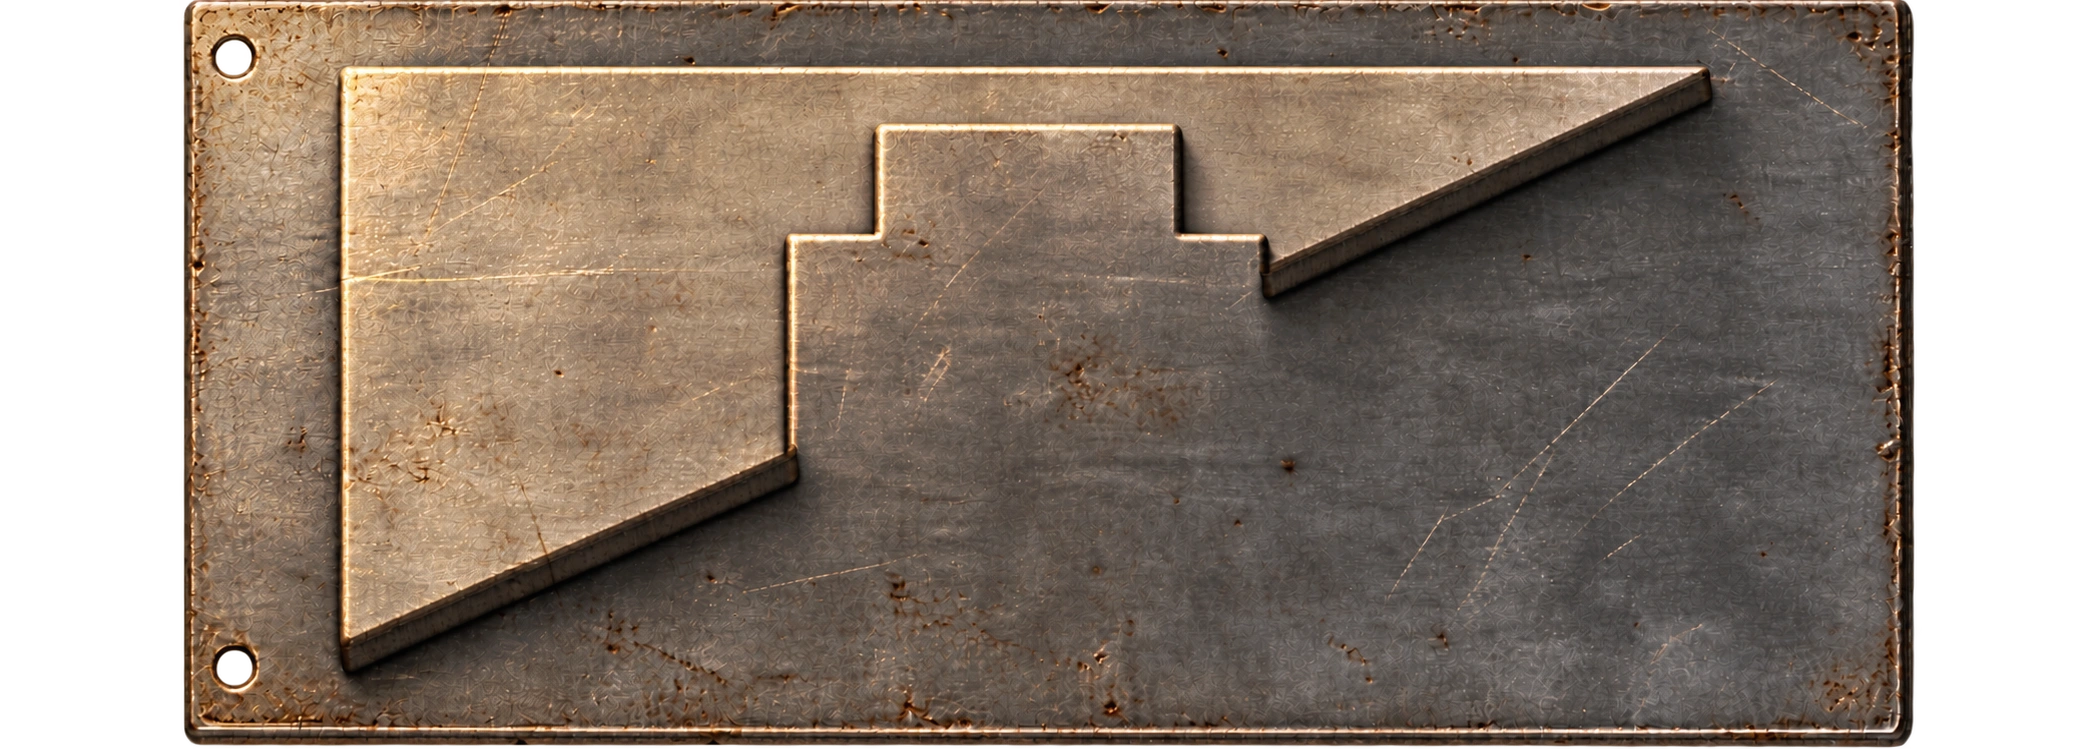
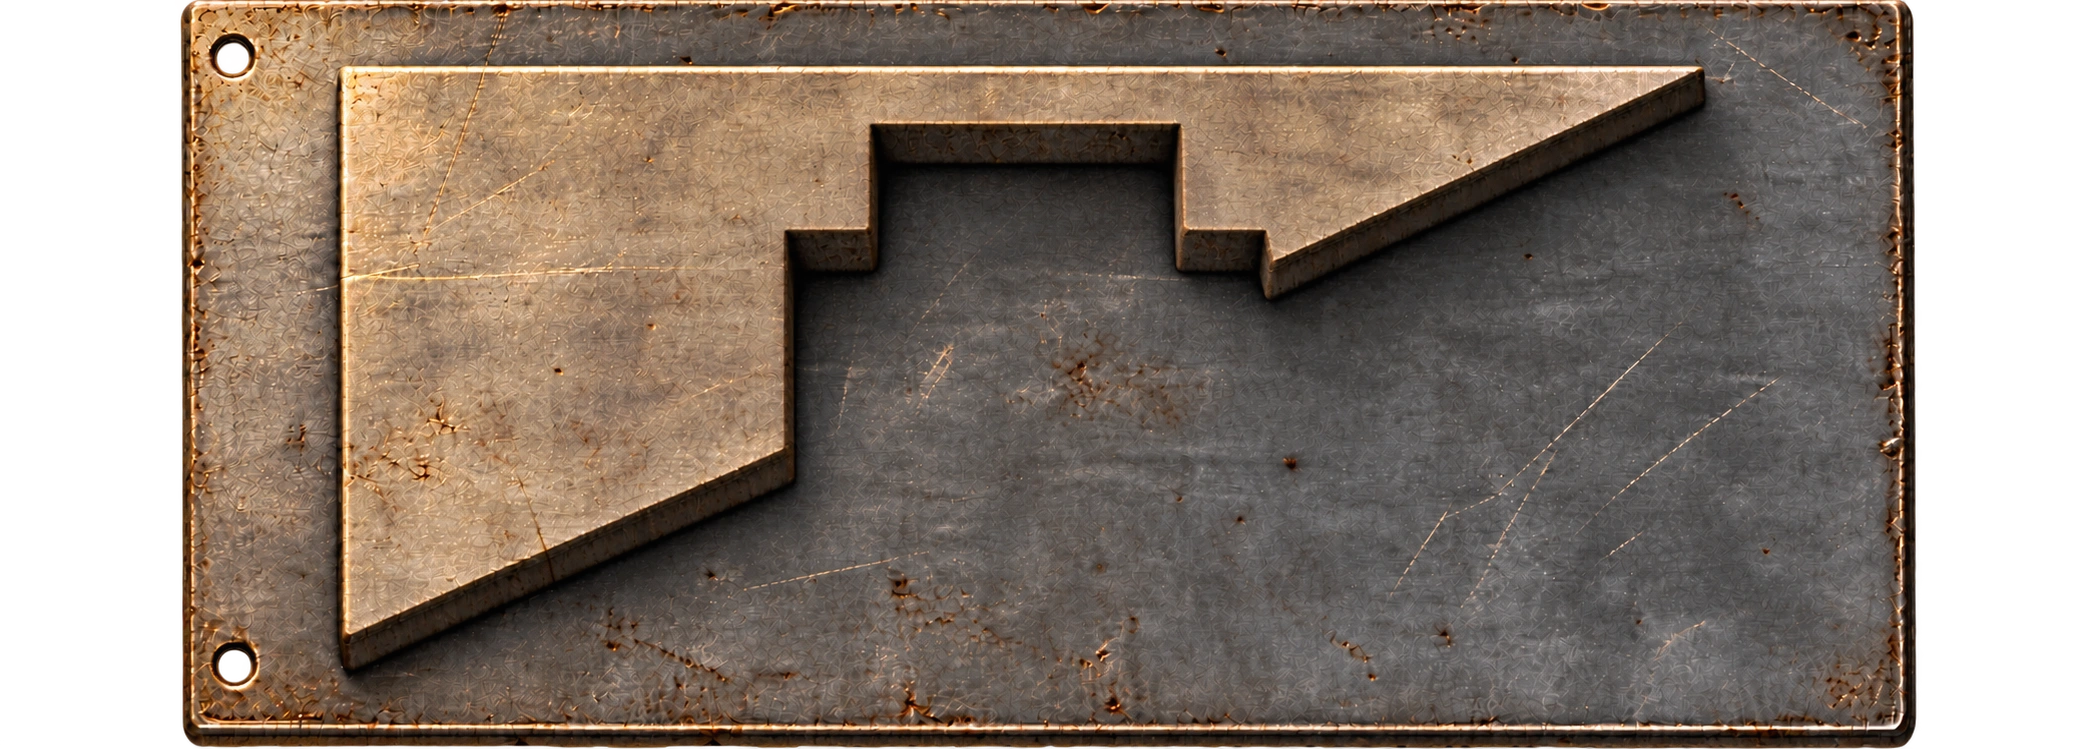
fix(remake): 原版中央の切り欠きを低い面として描き直す

diff --git a/src/remake/photoBounds.ts b/src/remake/photoBounds.ts
@@ -294,9 +294,9 @@ export const photoBounds:Record<string,{width:number;height:number;bounds:[numbe
     "width": 2100,
     "height": 749,
     "bounds": [
-      183,
+      180,
       0,
-      1732,
+      1737,
       749
     ]
   },

diff --git a/docs/remake/49_PLATE_RELIEF.md b/docs/remake/49_PLATE_RELIEF.md
@@ -7,3 +7,5 @@
 imagegen 編集後に透過を保ってWebP変換。マスター、旧版バックアップ、生成プロンプトは研究フォルダーに保存。manifest と photoBounds を新画像に同期。
 
 確認: 資産監査267件・未登録0件、ビルド成功。1440×1000の本番プレビューで一段目を表示して目視し、厚みと陰影、透過を確認。qa/plate-relief-final.png。初見識別テストは未実施。
+
+再修正: 前版は中央の階段状輪郭の明るい縁が残り、中央が凸に見えるという指摘を受けた。中央の上辺・肩・左辺を低い床へ下りる暗い側壁と内側の影に描き直した。中央の床は右下の低い面と連続させた。本番で表示し qa/plate-notch-corrected.png を目視。資産監査とビルド通過。旧生成画像は研究マスターに退避。
